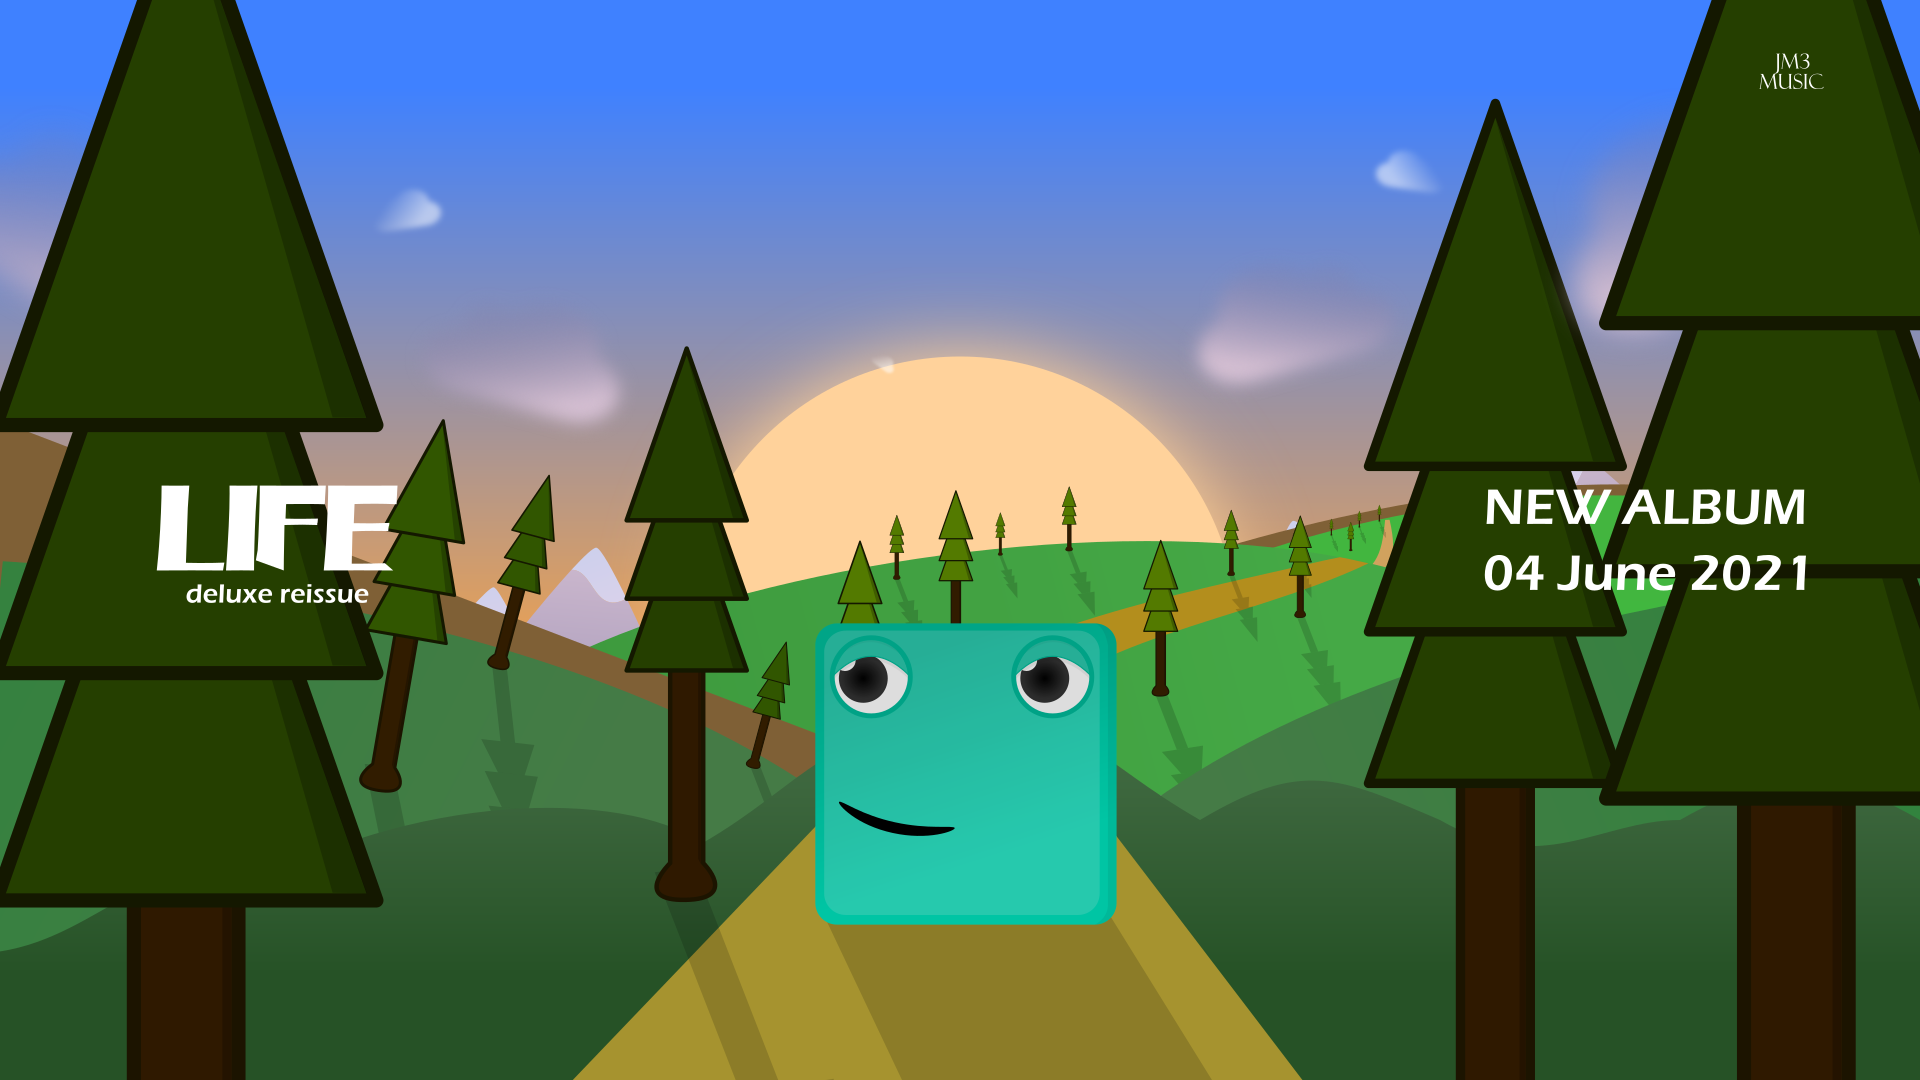
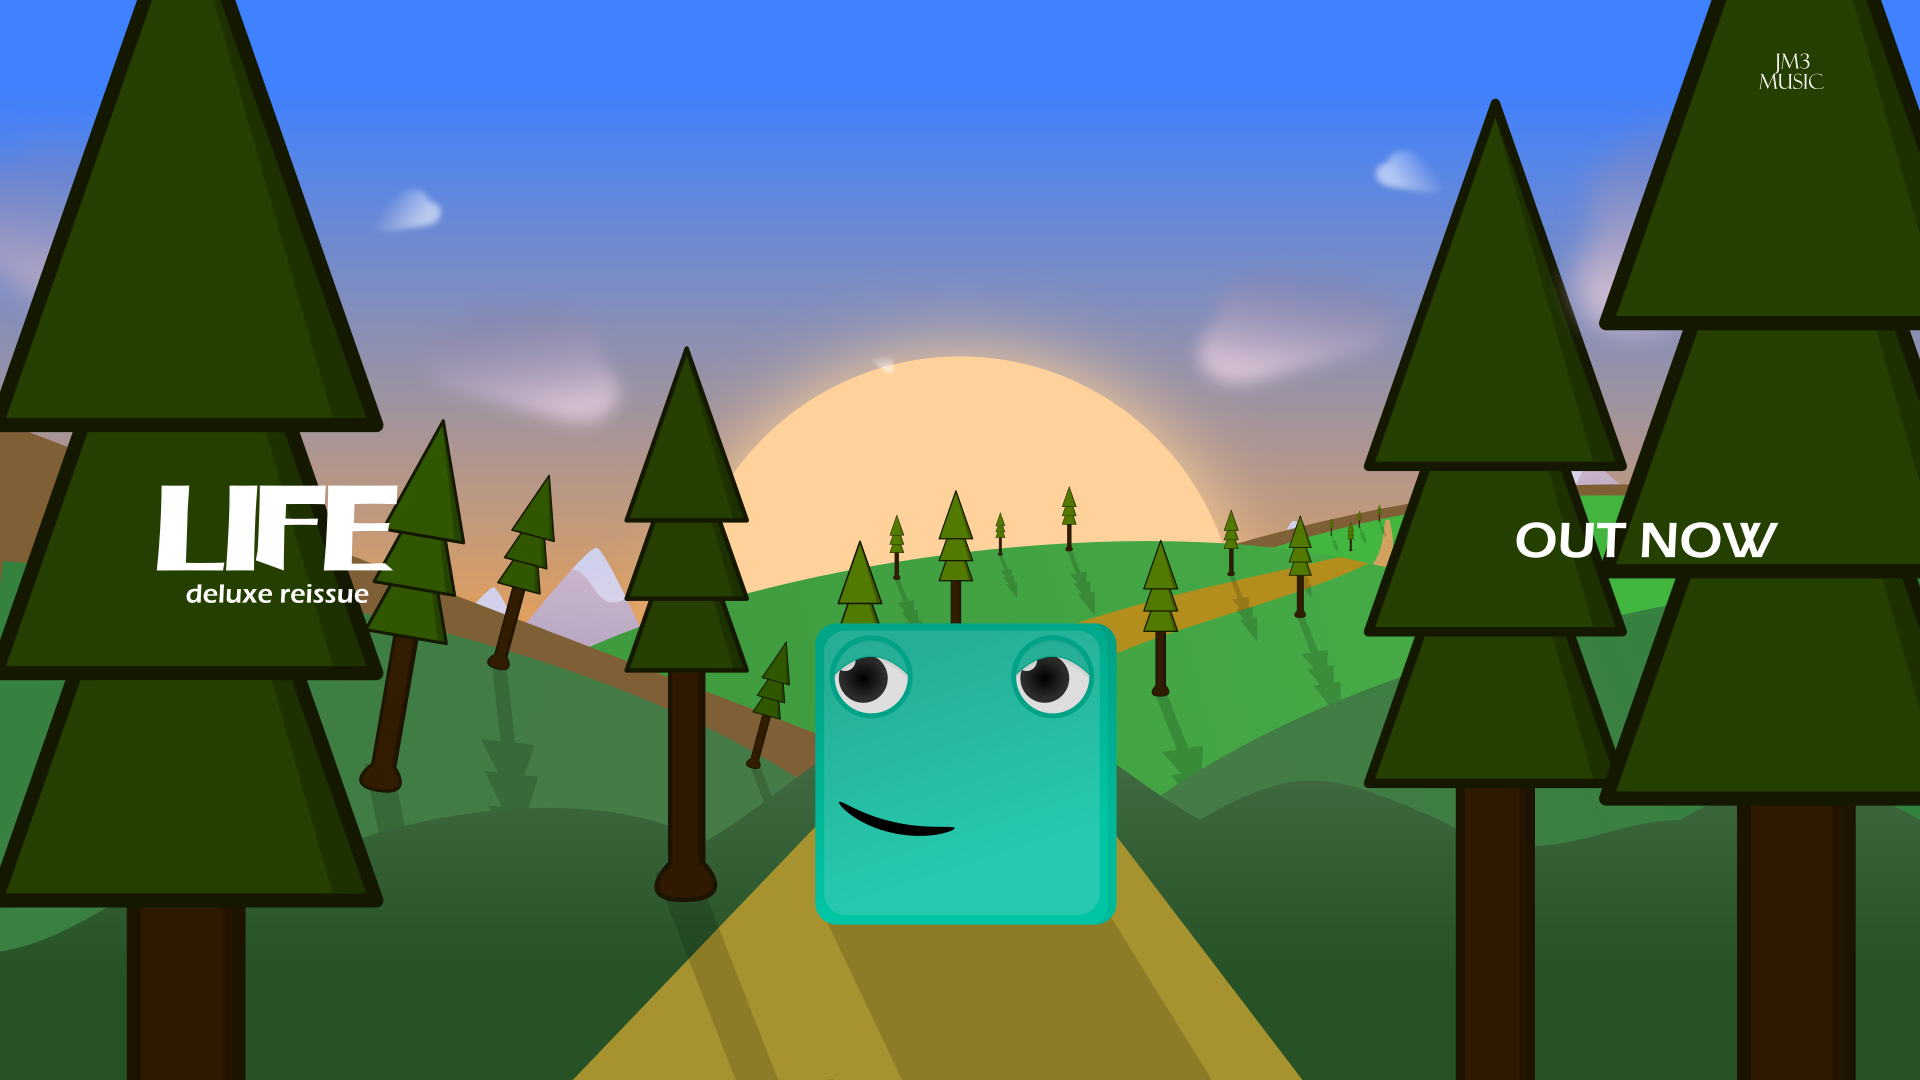
push

Changed region(s): [[0.75, 0.4278, 0.9375, 0.55]]

diff --git a/life-soundtrack-reissue.html b/life-soundtrack-reissue.html
@@ -37,10 +37,11 @@
     <div class="container">
         <p class="text- notesh">:midori_parched:</p>
         <p>thirteen year-old joseph madril (alluthus) had big ambitions to create an original video game on a code learning website after his friends showed their cool creations. despite the game never actually being released, its soundtrack was issued in late 2017.</p>
-        <p>in celebration of the conception of the project, the sixteen-track soundtrack will be reissued on 04 june 2021 along with five previously unreleased tracks.</p>
+        <p>in celebration of the conception of the project, the sixteen-track soundtrack was reissued on 04 june 2021 along with five previously unreleased tracks.</p>
+        <p class="text- notesh">Life (Game Soundtrack) [Deluxe Reissue]</p>
         <img src="assets/images/life_reissue_album.png" class="cover-al" /><br>
         <p class="text-small notesh">release date: 04 june 2021</p>
-        <p class="text- notesh">to be released</p>
+        <a class="buttonoutline" href="https://distrokid.com/hyperfollow/alluthus/life-game-soundtrack-deluxe-reissue" target="_blank">listen now</a>
         <p class="text-small notesh">track lisitngs</p>
         <ul>
             <li>Life Splash - Alluthus</li>
@@ -71,6 +72,20 @@
         <p class="text- notesh">singles</p>
         <ul>
             <li>The Way of Life - april 2021</li>
+            <li>Elevator (by Isaac Shea) - may 2021</li>
+        </ul>
+        <p class="text- notesh">EP Version</p>
+        <p>this promotional ep was released digitally to certain platforms.</p>
+        <img src="assets/images/life_bgalbumep.png" class="cover-al" /><br>
+        <p class="text-small notesh">release date: 04 june 2021</p>
+        <p class="text-small notesh">track lisitngs</p>
+        <ul>
+            <li>Urban Groove - Alluthus</li>
+            <li>Choose Wisely - Alluthus</li>
+            <li>The Mayor - Alluthus</li>
+            <li>The Way of Life - Alluthus</li>
+            <li>Harmony of the Skies - Alluthus</li>
+            <li>Valley Heights - Alluthus</li>
         </ul>
         <div class="container afters"></div>
         <p class="text- notesh">more like life soundtrack (deluxe reissue)</p>        
